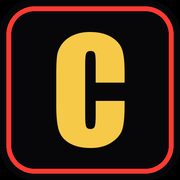
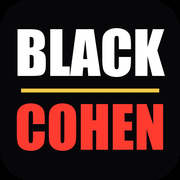
Botões ao longo da página e ícone Black Cohen

diff --git a/index.html b/index.html
@@ -13,9 +13,9 @@
 <meta property="og:url" content="https://black.rodrigocohen.com.br/">
 <meta property="og:image" content="https://black.rodrigocohen.com.br/img/og-image.jpg">
 <meta name="theme-color" content="#07070a">
-<link rel="icon" href="/favicon.ico" sizes="any">
-<link rel="icon" type="image/png" sizes="32x32" href="/img/favicon-32.png">
-<link rel="apple-touch-icon" href="/apple-touch-icon.png">
+<link rel="icon" href="/favicon.ico?v=2" sizes="any">
+<link rel="icon" type="image/png" sizes="32x32" href="/img/favicon-32.png?v=2">
+<link rel="apple-touch-icon" href="/apple-touch-icon.png?v=2">
 <link rel="preconnect" href="https://fonts.googleapis.com">
 <link rel="preconnect" href="https://fonts.gstatic.com" crossorigin>
 <link rel="stylesheet" href="https://fonts.googleapis.com/css2?family=Anton&family=Inter+Tight:wght@400;500;600;700;800&display=swap">
@@ -39,6 +39,8 @@ h1,h2,h3,p{margin:0}
 .cta:hover{transform:translateY(-1px);box-shadow:0 0 0 1px #3cf285 inset,0 14px 50px -6px rgba(34,211,107,.85)}
 .cta:focus-visible,input:focus-visible,.opt input:focus-visible+span,.chk input:focus-visible{outline:2px solid var(--gold);outline-offset:2px}
 .cta.inline{width:auto;align-self:flex-start;padding-inline:28px}
+.morecta{display:flex;justify-content:center;margin-top:32px;width:100%}
+@media (max-width:520px){.morecta .cta{width:100%}}
 
 /* HERO tela cheia */
 .hero{position:relative;isolation:isolate;overflow:hidden;min-height:min(880px,100svh)}
@@ -320,7 +322,7 @@ footer{border-top:1px solid var(--line);padding-block:26px;font-size:13px;color:
       <li class="hot"><b>O robô de scalping inédito</b><small>o mesmo que opera na minha conta pessoal · depois da Black Cohen, vai custar a partir de R$12 mil · acesso por tempo determinado, não vitalício</small></li>
     </ul>
   </div>
-  
+  <div class="morecta"><a class="cta inline" href="#lead" data-track="oferta_cta">Quero entrar na Lista VIP</a></div>
 </div>
 <div class="in"><div class="carousel" aria-label="Capas dos cursos"><div class="belt"><img src="img/capa1.jpg" alt=""><img src="img/capa2.jpg" alt=""><img src="img/capa3.jpg" alt=""><img src="img/capa4.jpg" alt=""><img src="img/capa5.jpg" alt=""><img src="img/capa6.jpg" alt=""><img src="img/capa7.jpg" alt=""><img src="img/capa8.jpg" alt=""><img src="img/capa9.jpg" alt=""><img src="img/capa10.jpg" alt=""><img src="img/capa1.jpg" alt=""><img src="img/capa2.jpg" alt=""><img src="img/capa3.jpg" alt=""><img src="img/capa4.jpg" alt=""><img src="img/capa5.jpg" alt=""><img src="img/capa6.jpg" alt=""><img src="img/capa7.jpg" alt=""><img src="img/capa8.jpg" alt=""><img src="img/capa9.jpg" alt=""><img src="img/capa10.jpg" alt=""></div></div></div>
 
@@ -347,6 +349,7 @@ footer{border-top:1px solid var(--line);padding-block:26px;font-size:13px;color:
     </div>
     <div class="mvideo"><button type="button" class="vhint" id="vplay"><span class="play">▶</span> Veja o vídeo</button><div class="vwrap"><span class="vbig" aria-hidden="true">▶</span><video id="mvid" src="vid/metodo.mp4" poster="vid/metodo-poster.jpg" controls playsinline preload="metadata"></video></div></div>
   </div>
+  <div class="morecta"><a class="cta inline" href="#lead" data-track="metodo_cta">Quero esse método na Black</a></div>
 </section>
 
 <section class="in">
@@ -365,12 +368,14 @@ footer{border-top:1px solid var(--line);padding-block:26px;font-size:13px;color:
       <div class="r"><span>Vagas</span><b>Limitadas · revelo dia 19/11</b></div>
     </div>
   </div>
+  <div class="morecta"><a class="cta inline" href="#lead" data-track="robo_cta">Quero acesso ao robô</a></div>
 </section>
 
 <section class="in acel">
   <p class="kicker">Incluído na Black: Acelerador Cohen</p>
   <h2 class="big">Em 1 semana, eu te ensino a <span class="hl-gold">ganhar dinheiro no mercado</span>. <span class="hl-red">Comprovadamente.</span></h2>
   <p class="prose">5 noites ao vivo comigo, aplicando o mesmo método que eu uso na minha conta.</p>
+  <div class="morecta"><a class="cta inline" href="#lead" data-track="acelerador_cta">Quero o Acelerador</a></div>
 </section>
 
 <section class="in depsec">
@@ -389,6 +394,7 @@ footer{border-top:1px solid var(--line);padding-block:26px;font-size:13px;color:
       <p>Já são 61 mil alunos. Todo dia ele opera ao vivo na sala e posta o resultado do dia, com o dia bom e com o dia ruim.</p>
     </div>
   </div>
+  <div class="morecta"><a class="cta inline" href="#lead" data-track="bio_cta">Entrar na Lista VIP</a></div>
 </section>
 </main>
 

diff --git a/404.html b/404.html
@@ -1,6 +1,6 @@
 <!doctype html>
 <html lang="pt-BR"><head><meta charset="utf-8"><meta name="viewport" content="width=device-width,initial-scale=1">
 <title>Página não encontrada · Black Friday Cohen</title><meta name="robots" content="noindex">
-<link rel="icon" href="/favicon.ico" sizes="any"><link rel="apple-touch-icon" href="/apple-touch-icon.png">
+<link rel="icon" href="/favicon.ico?v=2" sizes="any"><link rel="apple-touch-icon" href="/apple-touch-icon.png?v=2">
 <style>body{margin:0;min-height:100svh;display:grid;place-items:center;background:#07070a;color:#f4f3f7;font:16px system-ui,sans-serif;text-align:center;padding:24px}a{display:inline-block;margin-top:18px;background:#22d36b;color:#04170b;font-weight:800;text-decoration:none;padding:16px 28px;border-radius:8px}</style>
 </head><body><main><h1>Essa página não existe.</h1><p>A Lista VIP da Black Friday Cohen está na página principal.</p><a href="/">Ir para a Lista VIP</a></main></body></html>

diff --git a/obrigado.html b/obrigado.html
@@ -6,9 +6,9 @@
 <title>Inscrição confirmada · Black Friday Cohen</title>
 <meta name="robots" content="noindex">
 <meta name="theme-color" content="#07070a">
-<link rel="icon" href="/favicon.ico" sizes="any">
-<link rel="icon" type="image/png" sizes="32x32" href="/img/favicon-32.png">
-<link rel="apple-touch-icon" href="/apple-touch-icon.png">
+<link rel="icon" href="/favicon.ico?v=2" sizes="any">
+<link rel="icon" type="image/png" sizes="32x32" href="/img/favicon-32.png?v=2">
+<link rel="apple-touch-icon" href="/apple-touch-icon.png?v=2">
 <link rel="preconnect" href="https://fonts.googleapis.com">
 <link rel="preconnect" href="https://fonts.gstatic.com" crossorigin>
 <link rel="stylesheet" href="https://fonts.googleapis.com/css2?family=Anton&family=Inter+Tight:wght@400;600;700;800&display=swap">

diff --git a/politica-de-privacidade.html b/politica-de-privacidade.html
@@ -5,9 +5,9 @@
 <meta name="viewport" content="width=device-width,initial-scale=1,viewport-fit=cover">
 <title>Política de privacidade · Black Friday Cohen</title>
 <meta name="robots" content="noindex">
-<link rel="icon" href="/favicon.ico" sizes="any">
-<link rel="icon" type="image/png" sizes="32x32" href="/img/favicon-32.png">
-<link rel="apple-touch-icon" href="/apple-touch-icon.png">
+<link rel="icon" href="/favicon.ico?v=2" sizes="any">
+<link rel="icon" type="image/png" sizes="32x32" href="/img/favicon-32.png?v=2">
+<link rel="apple-touch-icon" href="/apple-touch-icon.png?v=2">
 <style>
 :root{color-scheme:dark}
 body{margin:0;background:#07070a;color:#e9e7ef;font:16px/1.65 "Inter Tight",system-ui,-apple-system,sans-serif}
